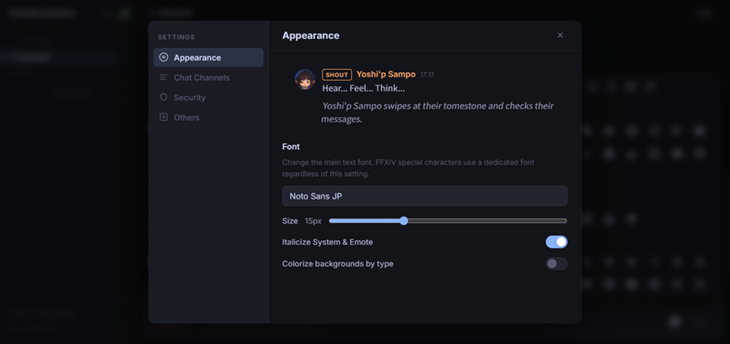
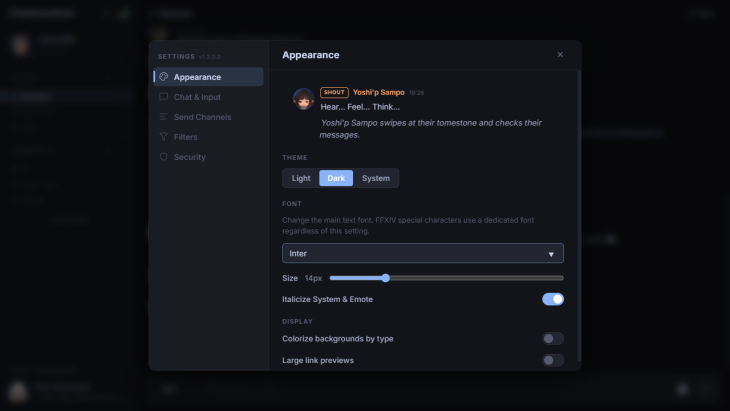
docs: update README and refresh all screenshots for v1.3.0.0

diff --git a/README.md b/README.md
@@ -62,8 +62,6 @@ party numbers ①–⑧, raid signs (Attack / Bind / Circle etc.), instance mark
 URLs from trusted sites (Lodestone, YouTube, Twitter/X, Twitch, Imgur, and more) automatically render an inline preview card showing the page title, description, and thumbnail.
 YouTube links show an embedded player you can watch without leaving the chat window.
 
-![URL preview card](images/readme-ogp.png)
-
 ### Link safety
 
 Clicking a URL in chat opens a confirmation dialog before leaving the page.
@@ -73,6 +71,7 @@ You can whitelist trusted domains so subsequent clicks open immediately without 
 
 ![Appearance settings](images/readme-appearance.png)
 
+- Switch between **Light**, **Dark**, and **System** (follows your OS) themes
 - Choose any **Google Font** for the chat window
 - Adjust **font size**
 - Toggle **italic rendering** for system messages
